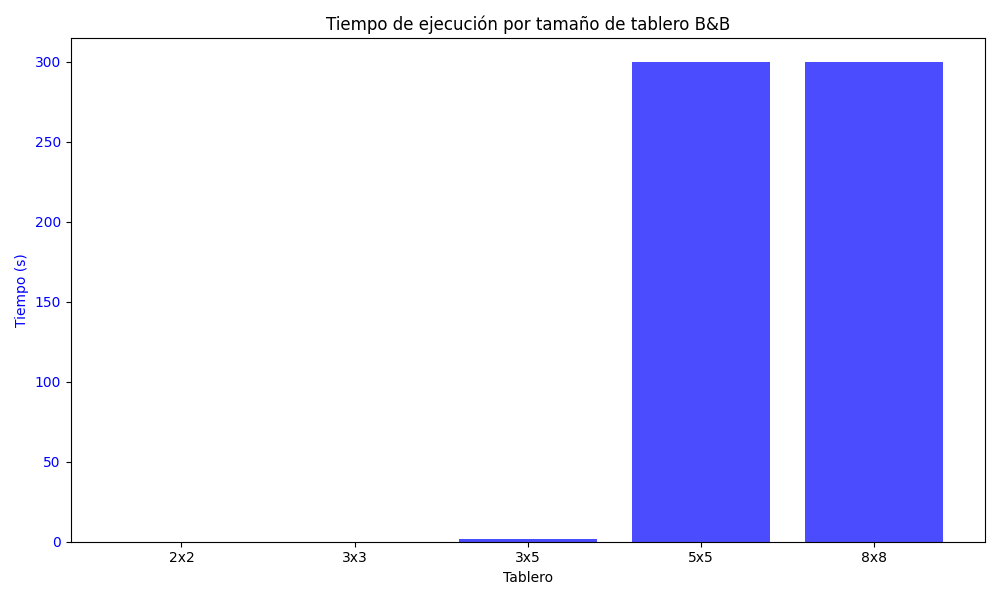
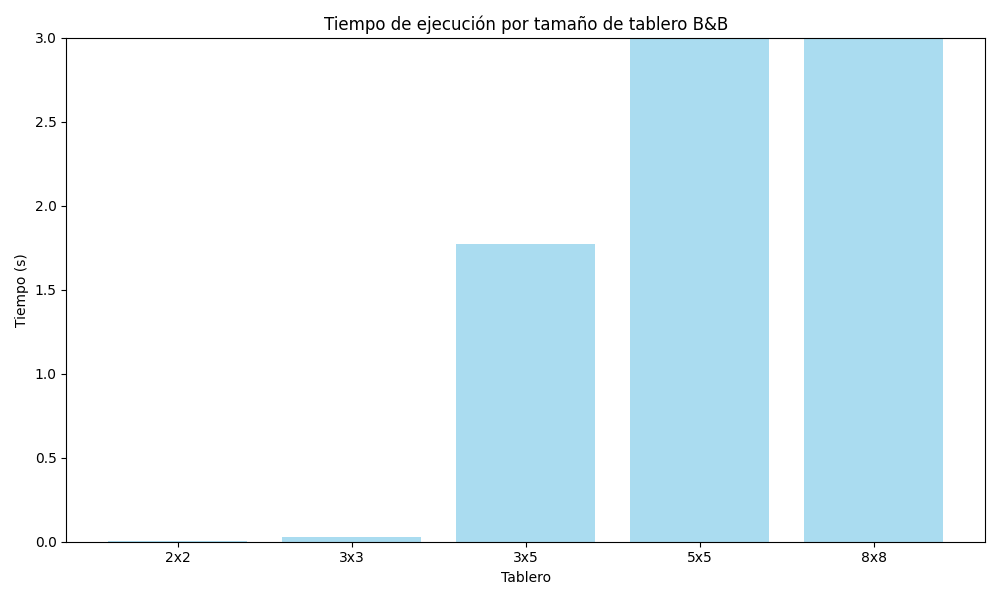
añadida tabla comparativa

diff --git a/ia_practica_1/utils/chart_creator.py b/ia_practica_1/utils/chart_creator.py
@@ -16,11 +16,12 @@ def create_byb_chart():
     fig, ax1 = plt.subplots(figsize=(10, 6))
 
     # Gráfico de barras para el tiempo
-    ax1.bar(tableros, tiempos, color='blue', alpha=0.7, label="Tiempo (s)")
+    ax1.bar(tableros, tiempos, color='skyblue', alpha=0.7, label="Tiempo (s)")
     # ax1.plot(tableros, tiempos, color='red', marker='o', label="Tiempo (s)")
     ax1.set_xlabel("Tablero")
-    ax1.set_ylabel("Tiempo (s)", color='blue')
-    ax1.tick_params(axis='y', labelcolor='blue')
+    ax1.set_ylabel("Tiempo (s)")
+    ax1.tick_params(axis='y')
+    plt.ylim(0, 3)  # Límite máximo de 3 segundos en el eje Y
 
     # Crear un segundo eje para la cantidad de caballos
     # ax2 = ax1.twinx()
@@ -51,11 +52,12 @@ def create_astar_chart():
     fig, ax1 = plt.subplots(figsize=(10, 6))
 
     # Gráfico de barras para el tiempo
-    ax1.bar(tableros, tiempos, color='blue', alpha=0.7, label="Tiempo (s)")
+    ax1.bar(tableros, tiempos, color='salmon', alpha=0.7, label="Tiempo (s)")
     # ax1.plot(tableros, tiempos, color='red', marker='o', label="Tiempo (s)")
     ax1.set_xlabel("Tablero")
-    ax1.set_ylabel("Tiempo (s)", color='blue')
-    ax1.tick_params(axis='y', labelcolor='blue')
+    ax1.set_ylabel("Tiempo (s)")
+    ax1.tick_params(axis='y')
+    plt.ylim(0, 3)  # Límite máximo de 3 segundos en el eje Y
 
     # Crear un segundo eje para la cantidad de caballos
     # ax2 = ax1.twinx()
@@ -76,5 +78,41 @@ def create_astar_chart():
 
     plt.show()
 
-# create_byb_chart()
+
+def create_comparative_chart():
+    # Datos de la tabla
+    tableros = ["2x2", "3x3", "3x5", "5x5", "8x8"]
+    tiempos_bnb = [0.004, 0.026, 1.770, 5*60, 5*60]
+    tiempos_astar = [0.001, 0.003, 0.034, 0.229, 5*60]
+
+    # Crear gráfico de barras con límite de 60 segundos en el eje Y
+    plt.figure(figsize=(10, 6))
+    bar_width = 0.35  # Ancho de las barras
+    index = range(len(tableros))
+
+    # Barras para cada algoritmo
+    plt.bar([i - bar_width/2 for i in index], tiempos_bnb, bar_width, label='Branch and Bound', color='skyblue')
+    plt.bar([i + bar_width/2 for i in index], tiempos_astar, bar_width, label='A*', color='salmon')
+
+    # Etiquetas y título
+    plt.xlabel('Tamaño del tablero')
+    plt.ylabel('Tiempo de ejecución (segundos)')
+    plt.title('Comparativa del tiempo de ejecución entre Branch and Bound y A* (máx 3 segundos)')
+    plt.xticks(index, tableros)
+    plt.ylim(0, 3)  # Límite máximo de 3 segundos en el eje Y
+    plt.legend()
+
+    # Crear el directorio si no existe
+    img_path = imgs_path / "grafico_tiempo_caballos_bnb_astar.png"
+    os.makedirs(os.path.dirname(img_path), exist_ok=True)
+
+    # Guardar el gráfico como archivo PNG en el directorio actual
+    plt.savefig(img_path)
+
+    # Mostrar gráfico
+    plt.show()
+
+
+create_byb_chart()
 create_astar_chart()
+create_comparative_chart()
